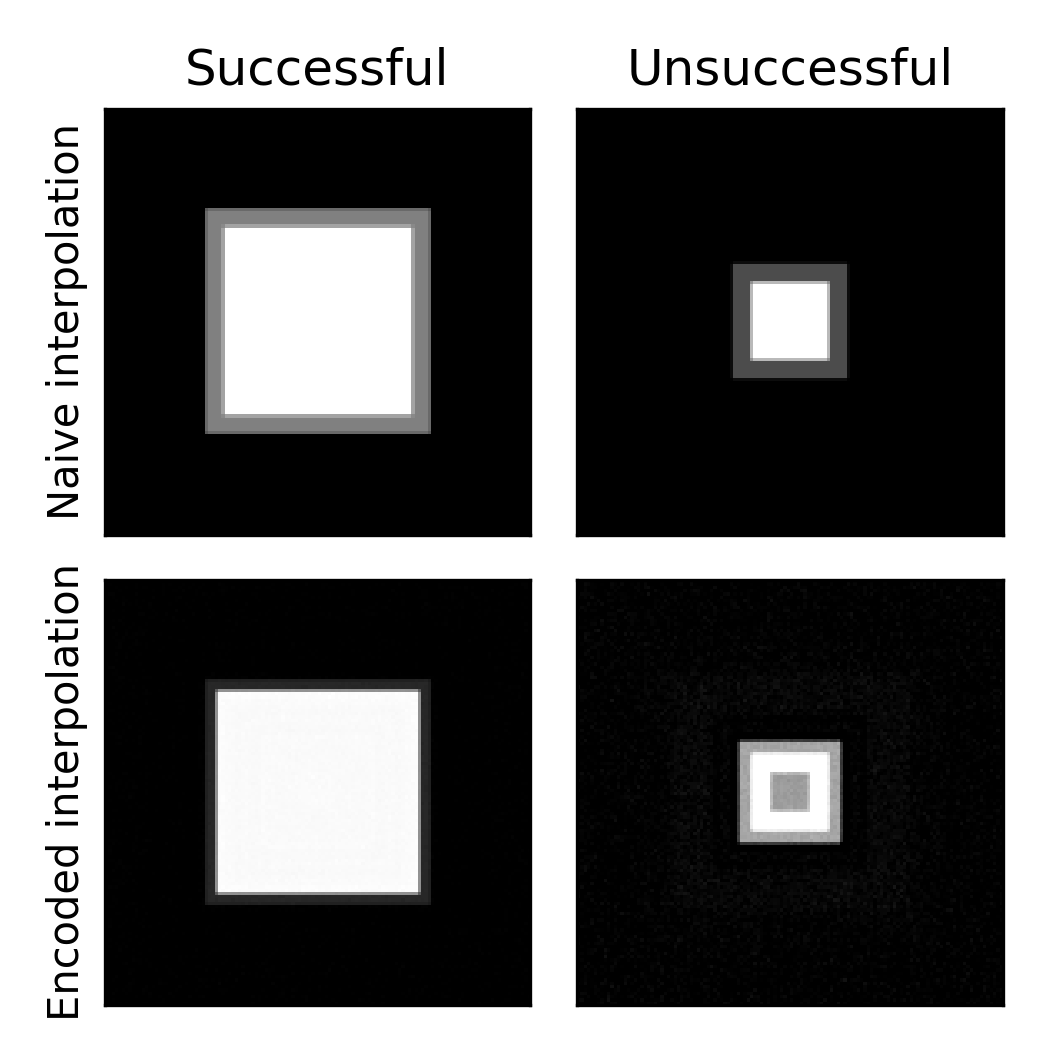
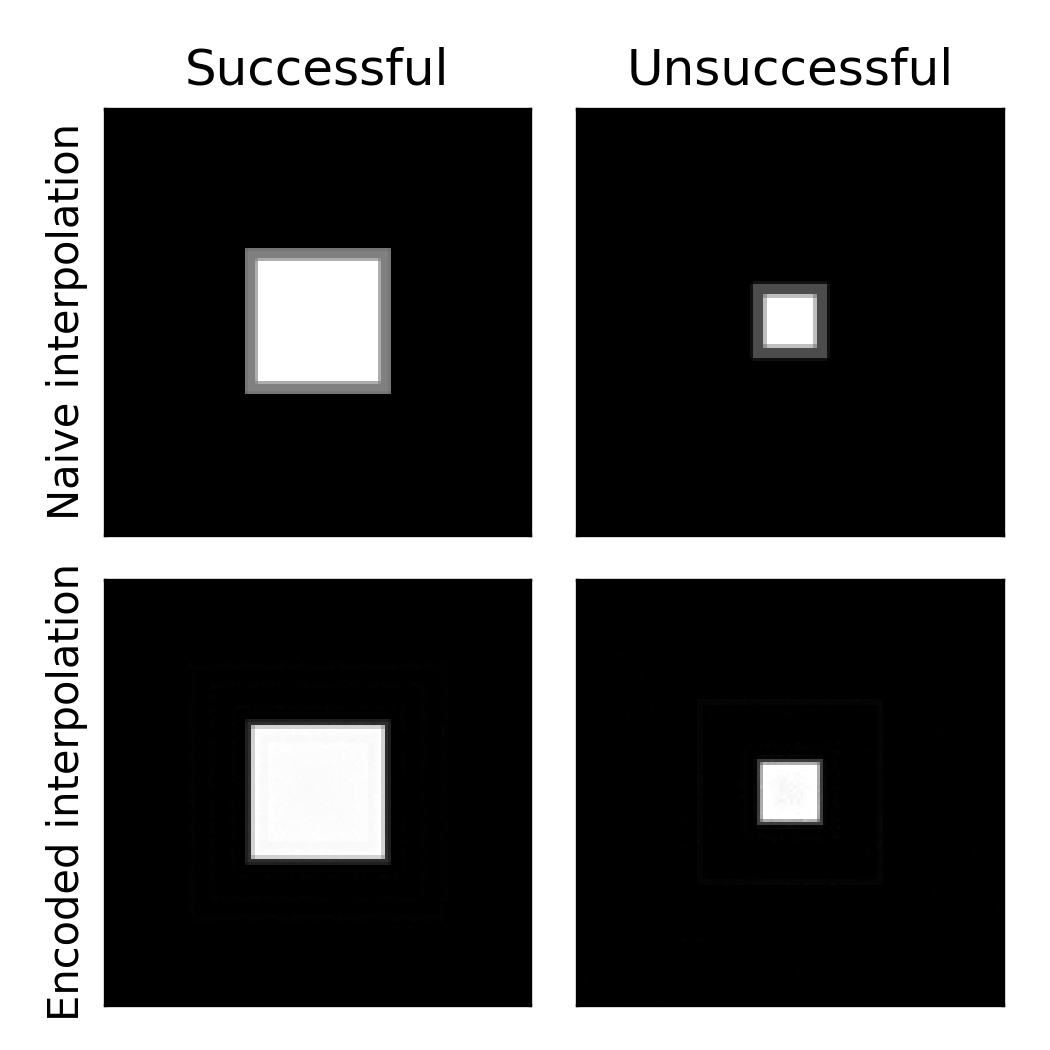
Extended video

diff --git a/main.py b/main.py
@@ -16,11 +16,11 @@ np.random.seed(3)
 torch.manual_seed(3)
 torch.cuda.manual_seed_all(3)
 
-n_frames = 10
-box_widths = np.hstack([np.linspace(0, 100, n_frames), np.linspace(100, 10, n_frames)])
-box_heights = np.hstack([np.linspace(0, 100, n_frames), np.linspace(100, 10, n_frames)])
-center_x = np.linspace(0, 100, n_frames*2)
-center_y = np.linspace(28, 128, n_frames*2)
+n_frames = 60
+box_widths = np.hstack([np.linspace(0, 100, n_frames//4), np.linspace(100, 10, n_frames//4), np.linspace(10, 90, n_frames//4), np.linspace(90, 0, n_frames//4)])
+box_heights = box_widths
+center_x = np.hstack([np.linspace(0, 100, n_frames // 2), np.linspace(100, 0, n_frames // 2)])
+center_y = np.linspace(0, 127, n_frames)
 size_video = np.array([boximage(box_width, box_height) for box_width, box_height, cx, cy in zip(box_widths, box_heights, center_x, center_y)])
 moving_video = np.array([boximage(box_width, box_height, center = (cx, cy)) for box_width, box_height, cx, cy in zip(box_widths, box_heights, center_x, center_y)])
 
@@ -67,29 +67,29 @@ for video, video_name in zip([size_video, moving_video], ['Regular', 'Moving']):
         ani = animate_video(interpolated_video)
         plt.show()
 
-        frames_of_interest = [55, 23]
-        frame_names = ['Successful', 'Unsuccessful']
+        #frames_of_interest = [55, 23]
+        #frame_names = ['Successful', 'Unsuccessful']
 
-        fig, axs = plt.subplots(2, len(frames_of_interest), figsize=(3.5, 3.5))
+        #fig, axs = plt.subplots(2, len(frames_of_interest), figsize=(3.5, 3.5))
 
-        for i, frame in enumerate(frames_of_interest):
-            axs[0, i].imshow(interpolated_video[frame], cmap='gray', vmin=0, vmax=255)
-            axs[0, i].set_title(frame_names[i])
+        #for i, frame in enumerate(frames_of_interest):
+        #    axs[0, i].imshow(interpolated_video[frame], cmap='gray', vmin=0, vmax=255)
+        #    axs[0, i].set_title(frame_names[i])
 
-            axs[1, i].imshow(output_interpolated[frame], cmap='gray', vmin = 0, vmax = 255)
+        #    axs[1, i].imshow(output_interpolated[frame], cmap='gray', vmin = 0, vmax = 255)
 
             # hide axes labels
-            for j in range(2):
-                axs[j,i].axes.get_xaxis().set_visible(False)
-                axs[j,i].set_yticklabels([])
-                axs[j,i].set_yticks([])
+        #    for j in range(2):
+        #        axs[j,i].axes.get_xaxis().set_visible(False)
+        #        axs[j,i].set_yticklabels([])
+        #        axs[j,i].set_yticks([])
 
-        axs[0, 0].set_ylabel('Naive interpolation')
-        axs[1, 0].set_ylabel('Encoded interpolation')
+        #axs[0, 0].set_ylabel('Naive interpolation')
+        #axs[1, 0].set_ylabel('Encoded interpolation')
 
-        fig.tight_layout()
+        #fig.tight_layout()
 
-        plt.savefig(f'figures/interpolation_comparison_{model_name}_{video_name}.png', dpi=300)
+        #plt.savefig(f'figures/interpolation_comparison_{model_name}_{video_name}.png', dpi=300)
 
 
 

diff --git a/src/models/AE.py b/src/models/AE.py
@@ -135,14 +135,15 @@ class AE_interp(nn.Module):
         x_recon = self.decoder(z)
         return x_recon
 
-    def loss(self, x: torch.tensor):
+    def loss(self, x: torch.tensor, interp_weight = 1/10):
         z = self.encoder(x)
         z_interp = (z[:-2]+z[2:])/2
         #z_interp = torch.cat((z[0:1], z_interp, z[-2:-1]))
 
         x_recon = self.decoder(z)
         x_recon_interp = self.decoder(z_interp)
-        return nn.functional.mse_loss(x_recon, x) + nn.functional.mse_loss(x_recon_interp,x[1:-1])
+
+        return nn.functional.mse_loss(x_recon, x) + interp_weight * nn.functional.mse_loss(x_recon_interp,x[1:-1])
 
         #x_recon = self.forward(x)
         #return nn.functional.mse_loss(x_recon, x)
